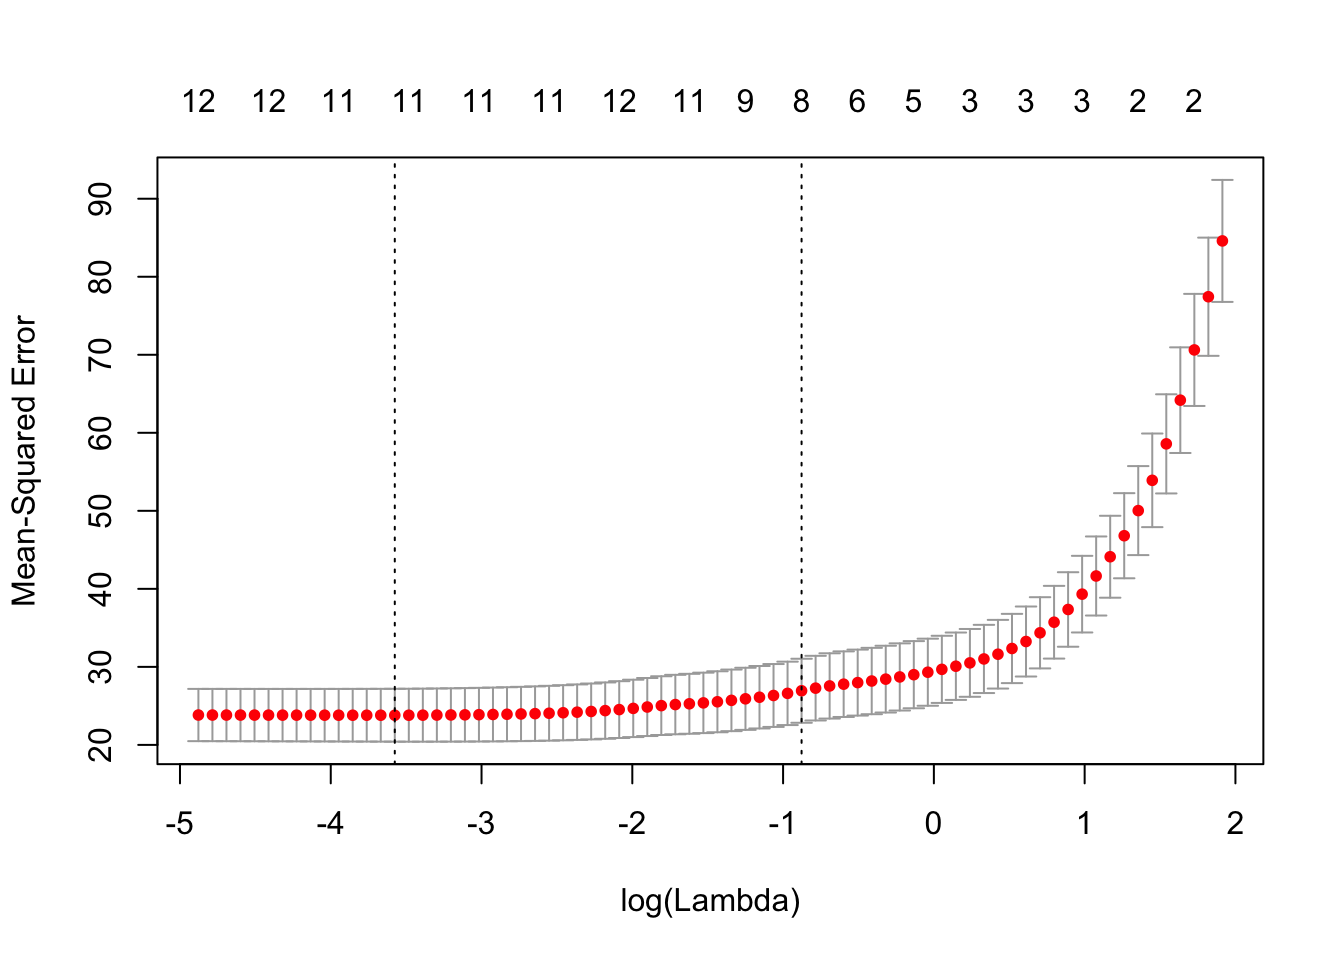
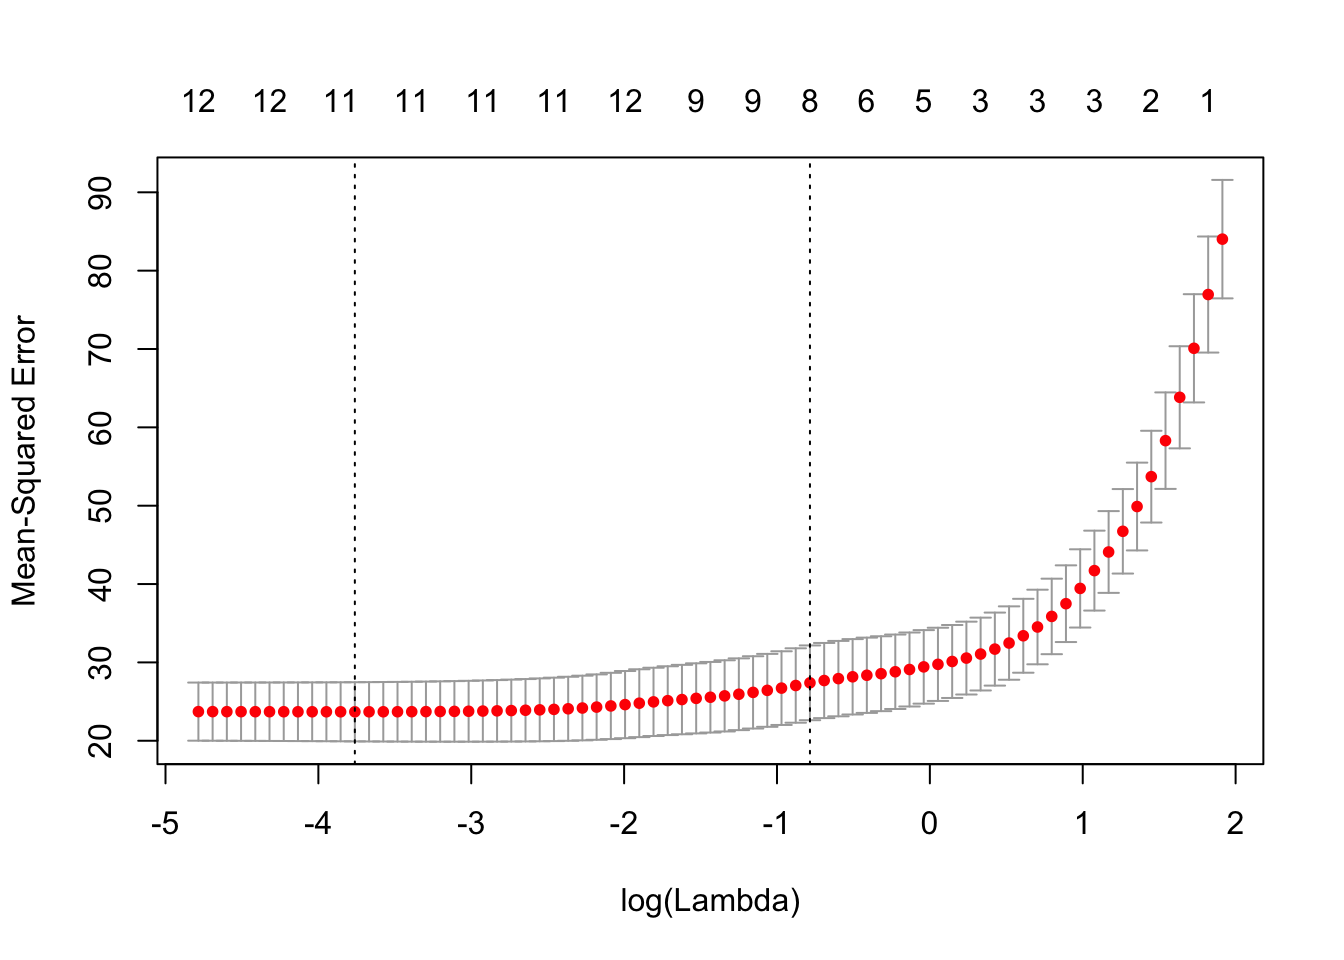
Ran BUILD so hopefully disqus will work

diff --git a/public/post/lasso-in-12-languages/index.html b/public/post/lasso-in-12-languages/index.html
@@ -424,23 +424,23 @@ fit &lt;- cv.glmnet(medv ~ ., data = Boston)</code></pre>
 <pre class="r"><code>coef(fit, s = &quot;lambda.1se&quot;)</code></pre>
 <pre><code>## 14 x 1 sparse Matrix of class &quot;dgCMatrix&quot;
 ##                        1
-## (Intercept) 16.268762344
-## crim        -0.019439916
+## (Intercept) 14.952941584
+## crim        -0.016820727
 ## zn           .          
 ## indus        .          
-## chas         1.791658202
-## nox         -2.085387000
-## rm           4.259590139
+## chas         1.675294130
+## nox         -0.708755104
+## rm           4.251922442
 ## age          .          
-## dis         -0.237030301
+## dis         -0.149254585
 ## rad          .          
 ## tax          .          
-## ptratio     -0.771520796
-## black        0.006407868
-## lstat       -0.517661470</code></pre>
+## ptratio     -0.754242569
+## black        0.006241931
+## lstat       -0.517173282</code></pre>
 <p>In addition, we can find the cross-validation estimate of the mean squared error:</p>
 <pre class="r"><code>fit$cvm[fit$lambda == fit$lambda.1se]</code></pre>
-<pre><code>## [1] 26.93809</code></pre>
+<pre><code>## [1] 27.39335</code></pre>
 <p>These are the values I will try to reproduce by actually implementing the lasso in twelve different languages.</p>
 </div>
 <div id="steps-involved-in-computing-the-lasso" class="section level2">

diff --git a/content/post/2018-12-28-lasso-in-twelve-languages.html b/content/post/2018-12-28-lasso-in-twelve-languages.html
@@ -35,23 +35,23 @@ fit &lt;- cv.glmnet(medv ~ ., data = Boston)</code></pre>
 <pre class="r"><code>coef(fit, s = &quot;lambda.1se&quot;)</code></pre>
 <pre><code>## 14 x 1 sparse Matrix of class &quot;dgCMatrix&quot;
 ##                        1
-## (Intercept) 16.268762344
-## crim        -0.019439916
+## (Intercept) 14.952941584
+## crim        -0.016820727
 ## zn           .          
 ## indus        .          
-## chas         1.791658202
-## nox         -2.085387000
-## rm           4.259590139
+## chas         1.675294130
+## nox         -0.708755104
+## rm           4.251922442
 ## age          .          
-## dis         -0.237030301
+## dis         -0.149254585
 ## rad          .          
 ## tax          .          
-## ptratio     -0.771520796
-## black        0.006407868
-## lstat       -0.517661470</code></pre>
+## ptratio     -0.754242569
+## black        0.006241931
+## lstat       -0.517173282</code></pre>
 <p>In addition, we can find the cross-validation estimate of the mean squared error:</p>
 <pre class="r"><code>fit$cvm[fit$lambda == fit$lambda.1se]</code></pre>
-<pre><code>## [1] 26.93809</code></pre>
+<pre><code>## [1] 27.39335</code></pre>
 <p>These are the values I will try to reproduce by actually implementing the lasso in twelve different languages.</p>
 </div>
 <div id="steps-involved-in-computing-the-lasso" class="section level2">
